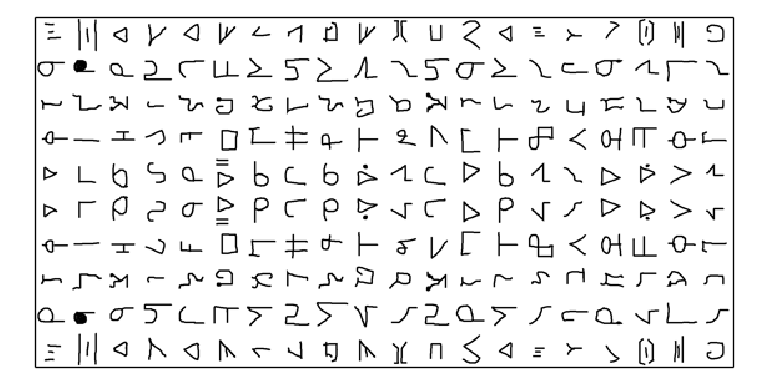
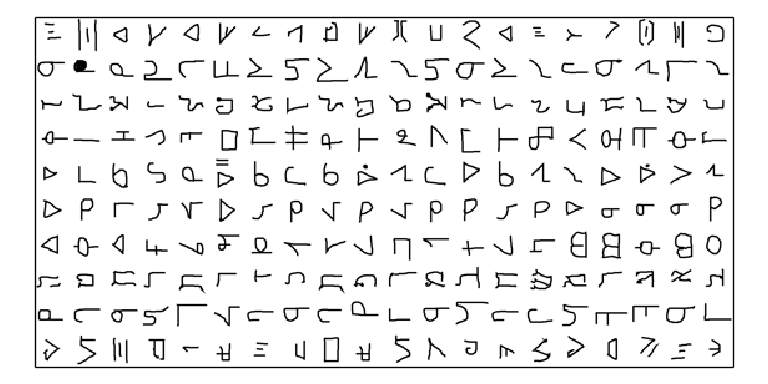
Added corr fig to paper

Changed region(s): [[0.0312, 0.5, 0.9688, 0.9688], [0.0312, 0.875, 0.3438, 0.9688]]

diff --git a/experiments/Feb_4_augmented_omniglot/2/experiment.py b/experiments/Feb_4_augmented_omniglot/2/experiment.py
@@ -11,7 +11,7 @@ from hypergrad.optimizers import sgd_meta_only as sgd
 from hypergrad.util import RandomState, dictslice, dictmap
 from hypergrad.odyssey import omap
 
-layer_sizes = [784, 300, 200, 55]
+layer_sizes = [784, 400, 200, 55]
 N_layers = len(layer_sizes) - 1
 N_iters = 50
 alpha = 1.0
@@ -27,7 +27,7 @@ init_script_corr = 0.5
 
 def run():
     RS = RandomState((seed, "top_rs"))
-    all_data = omniglot.load_flipped_alphabets(RS)
+    all_data = omniglot.load_flipped_alphabets()
     train_data, tests_data = random_partition(all_data, RS, [12, 3])
     w_parser, pred_fun, loss_fun, frac_err = make_nn_funs(layer_sizes)
     N_weights = w_parser.vect.size
@@ -131,21 +131,21 @@ def plot():
 
     with open('results.pkl') as f:
         transform_parser, transform_vects, train_losses, tests_losses = pickle.load(f)
-    RS = RandomState((seed, "top_rs"))
-    omniglot.show_alphabets(omniglot.load_flipped_alphabets(RS, normalize=False))
+
+    omniglot.show_alphabets(omniglot.load_flipped_alphabets(normalize=False))
 
     # Plotting transformations
     names = ['no_sharing', 'full_sharing', 'learned_sharing']
-    title_strings = {'no_sharing'      : 'Independent\nnets',
-                     'full_sharing'    : 'Shared\nbottom layer',
-                     'learned_sharing' : 'Learned\nsharing'}
+    title_strings = {'no_sharing'      : 'Independent nets',
+                     'full_sharing'    : 'Shared bottom layer',
+                     'learned_sharing' : 'Learned sharing'}
     covar_imgs = {name : build_covar_image(transform_vects[name]) for name in names}
 
     prop={'family':'serif', 'size':'12'}
 
     fig = plt.figure(0)
     fig.clf()
-    fig.set_size_inches((4,4))
+    fig.set_size_inches((6,6))
     for i, name in enumerate(names):
         ax = fig.add_subplot(1, 3, i + 1)
         ax.imshow(covar_imgs[name], cmap = mpl.cm.binary)
@@ -156,13 +156,13 @@ def plot():
             labels = ["Layer {0}".format(layer) for layer in [3, 2, 1]]            
             ypos   = [5, 15, 25]
             for s, y in zip(labels, ypos):
-                ax.text(-3, y, s, rotation='vertical')
+                ax.text(-2, y, s, rotation='vertical')
     plt.tight_layout()
     plt.savefig('learned_corr.png')
     plt.savefig('learned_corr.pdf')
 
 if __name__ == '__main__':
-    # results = run()
-    # with open('results.pkl', 'w') as f:
-    #     pickle.dump(results, f, 1)
+    results = run()
+    with open('results.pkl', 'w') as f:
+        pickle.dump(results, f, 1)
     plot()

diff --git a/paper/hypergrad_paper.tex b/paper/hypergrad_paper.tex
@@ -400,12 +400,13 @@ The main limitation seems to be overfitting.
 
 \begin{figure}[h!]
 \begin{center}
-\begin{tabular}{ccc}
-Independent & Learned & Full \\
-\hspace{-1em}\includegraphics[width=0.31 \columnwidth]{../experiments/Feb_1_learning_alphabet_corr/5/covar_eye.pdf} &
-\hspace{-1em}\includegraphics[width=0.31 \columnwidth]{../experiments/Feb_1_learning_alphabet_corr/5/covar_learned_toplayer.pdf} &
-\hspace{-1em}\includegraphics[width=0.31 \columnwidth]{../experiments/Feb_1_learning_alphabet_corr/5/covar_full.pdf}
-\end{tabular}
+\includegraphics[width=\columnwidth]{../experiments/Feb_4_augmented_omniglot/1/learned_corr.pdf}
+%% \begin{tabular}{ccc}
+%% Independent & Learned & Full \\
+%% \hspace{-1em}\includegraphics[width=0.31 \columnwidth]{../experiments/Feb_1_learning_alphabet_corr/5/covar_eye.pdf} &
+%% \hspace{-1em}\includegraphics[width=0.31 \columnwidth]{../experiments/Feb_1_learning_alphabet_corr/5/covar_learned_toplayer.pdf} &
+%% \hspace{-1em}\includegraphics[width=0.31 \columnwidth]{../experiments/Feb_1_learning_alphabet_corr/5/covar_full.pdf}
+%% \end{tabular}
 \caption{Learned covariances between neural nets trained on different alphabets.}
 \label{fig:omniglot}
 \end{center}

diff --git a/hypergrad/omniglot.py b/hypergrad/omniglot.py
@@ -61,9 +61,10 @@ def load_rotated_alphabets(num_chars, RS):
     normalized_data = [subtract_mean(data_subset) for data_subset in data_split]
     return normalized_data
 
-def load_flipped_alphabets(normalize=True):
+def load_flipped_alphabets(RS, normalize=True):
     raw_data = load_data(FLIPPED_ALPHABETS)
-    flipped_data  = [do_flip(alphabet) for alphabet in raw_data]
+    shuffled_data = [shuffle(alphabet, RS) for alphabet in raw_data]
+    flipped_data  = [do_flip(alphabet) for alphabet in shuffled_data]
     all_data = raw_data + flipped_data[::-1]
     if normalize:
         all_data = subtract_mean(all_data)
